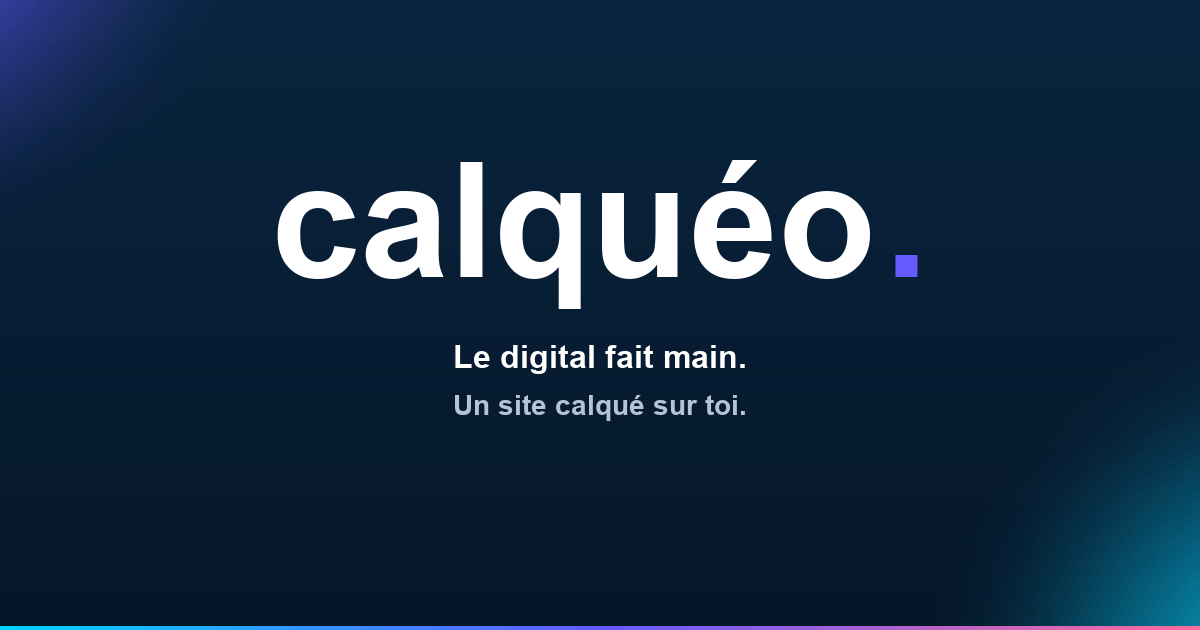
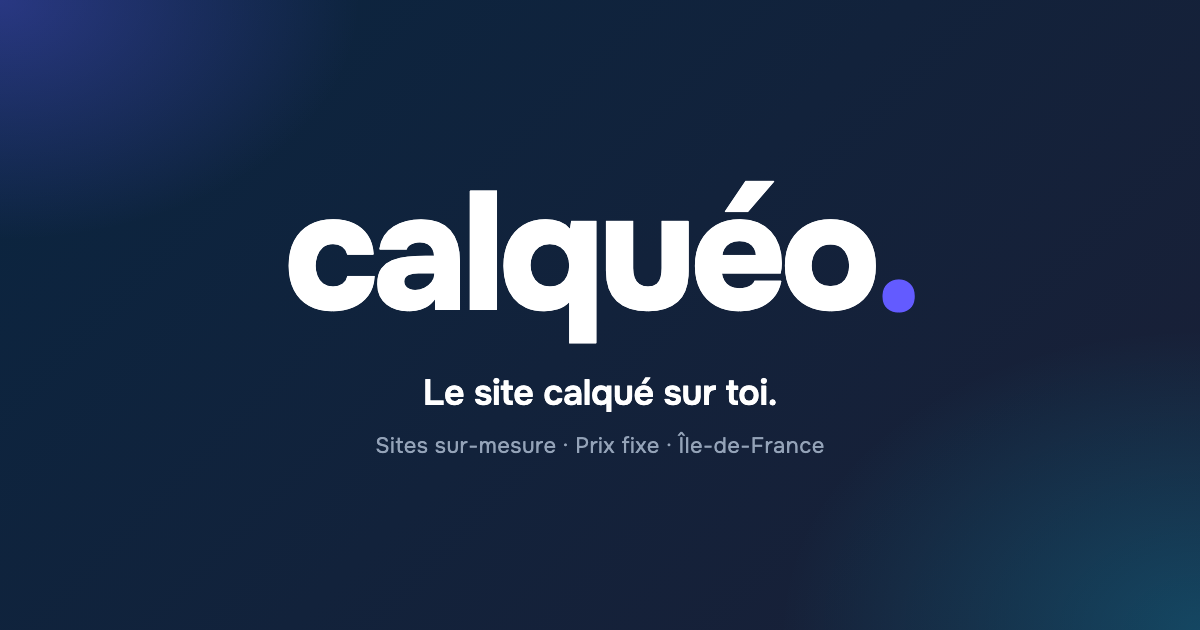
SEO + visuel : og-image baseline + JSON-LD tél/horaires + copy pricing fiche Google Business
- og-image.png regénérée (wordmark + tagline "Le site calqué sur toi.")
- .gitignore : exclut og-image-source.html (source locale)
- index.html : ajoute telephone [phone redacted] et openingHoursSpecification (Lun-Sam 9h-19h) dans JSON-LD ProfessionalService ; copy packs Signature/Premium passe à "SEO local — X requêtes + fiche Google Business"

diff --git a/index.html b/index.html
@@ -49,11 +49,20 @@
     "@type": "Person",
     "name": "Vincent Tinello"
   },
+  "telephone": "[phone redacted]",
   "address": {
     "@type": "PostalAddress",
     "addressRegion": "Île-de-France",
     "addressCountry": "FR"
   },
+  "openingHoursSpecification": [
+    {
+      "@type": "OpeningHoursSpecification",
+      "dayOfWeek": ["Monday", "Tuesday", "Wednesday", "Thursday", "Friday", "Saturday"],
+      "opens": "09:00",
+      "closes": "19:00"
+    }
+  ],
   "areaServed": [
     { "@type": "AdministrativeArea", "name": "Île-de-France" },
     { "@type": "Country", "name": "France" }
@@ -4426,7 +4435,7 @@ body {
         <li>Site sur-mesure jusqu'à 7 pages</li>
         <li>Design aligné sur ton identité</li>
         <li>Aide rédactionnelle — 1 page rédigée</li>
-        <li>Prêt SEO local — 5 mots-clés</li>
+        <li>SEO local — 5 requêtes + fiche Google Business</li>
         <li>Hébergement an 1 offert + 3 rounds de modifs</li>
         <li>Livré en 3 semaines</li>
       </ul>
@@ -4443,7 +4452,7 @@ body {
       <ul class="pack-features">
         <li>Site sur-mesure jusqu'à 12 pages + blog</li>
         <li>Identité visuelle revue + rédaction 5 pages</li>
-        <li>Prêt SEO local — 10 mots-clés</li>
+        <li>SEO local — 10 requêtes + fiche Google Business</li>
         <li>Prise de rendez-vous en ligne</li>
         <li>Hébergement an 1 offert + 5 rounds de modifs</li>
         <li>Livré en 5 semaines</li>